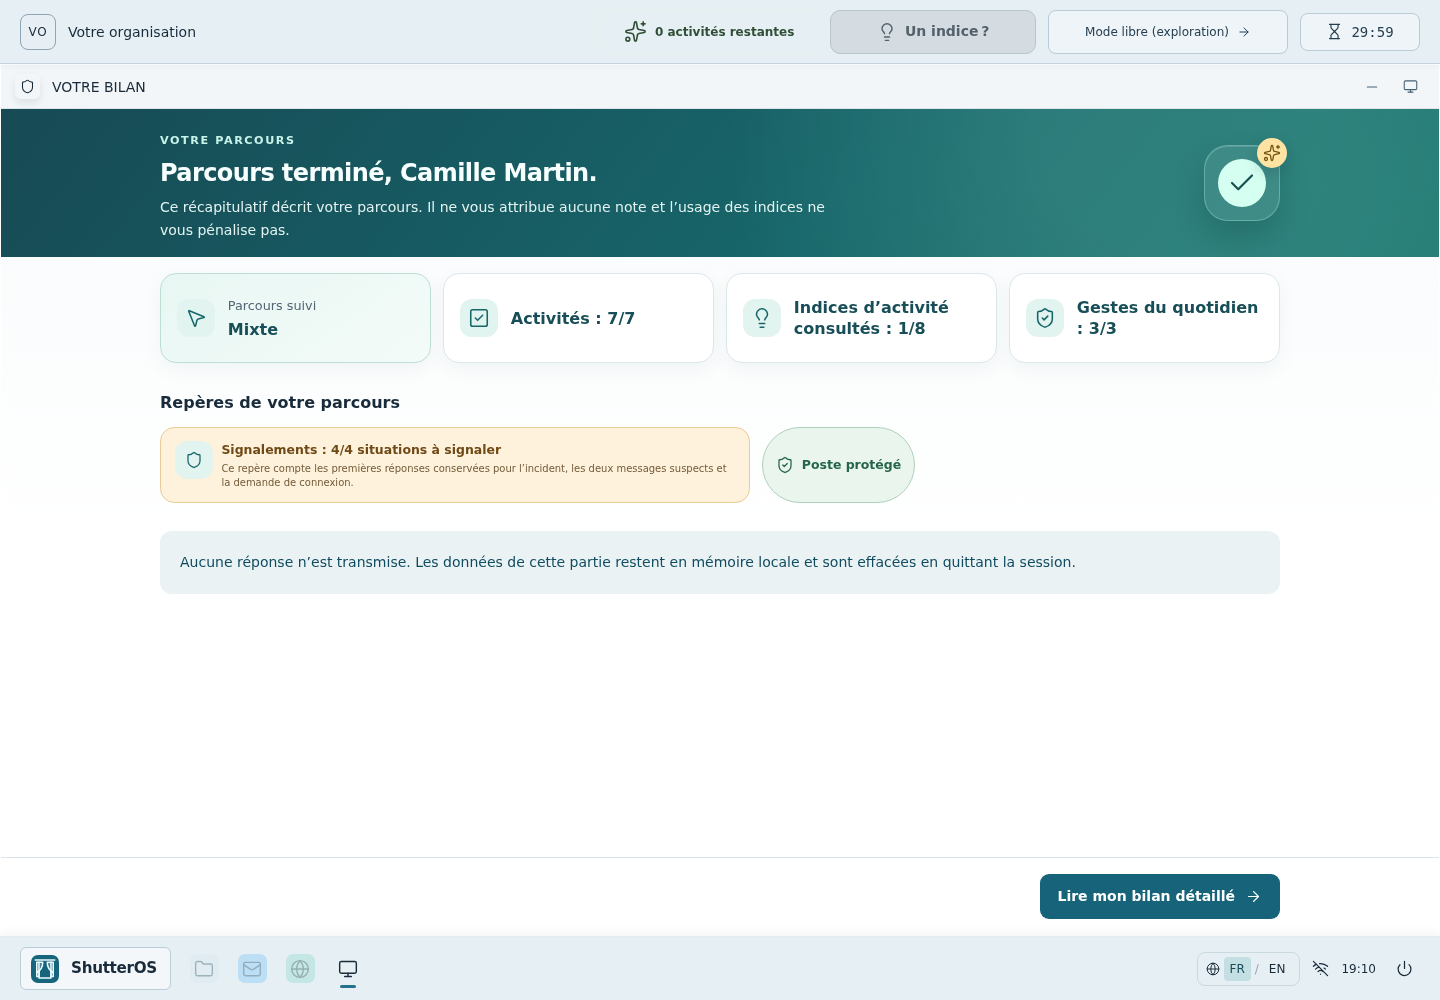
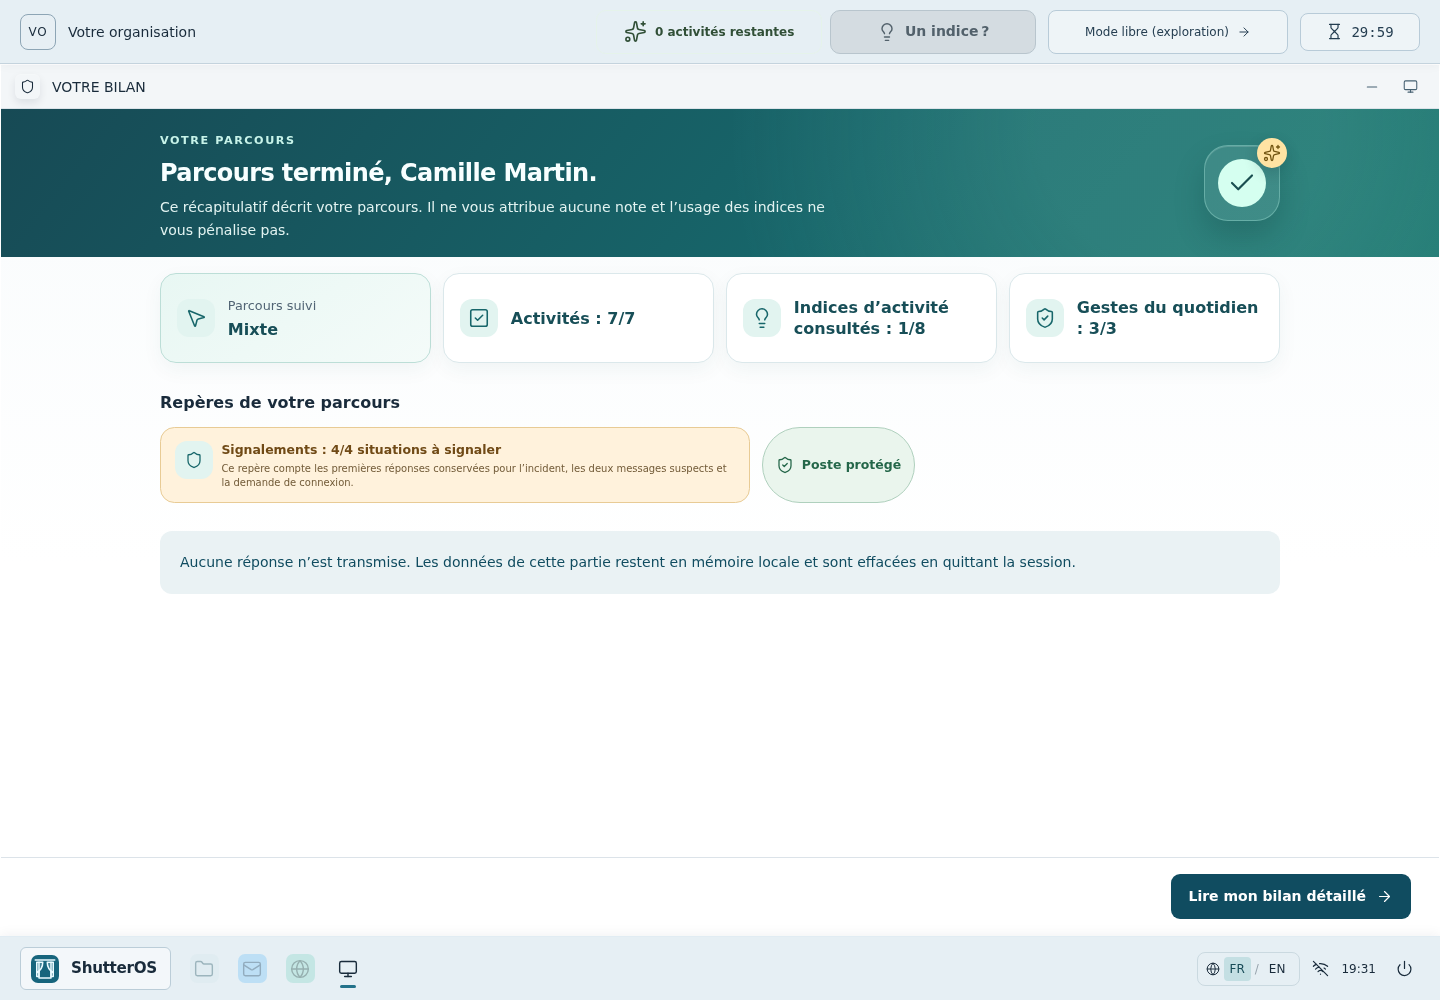
fix(ui): align progression actions at the bottom right

Changed region(s): [[0.7188, 0.868, 1.0, 0.93]]

diff --git a/packages/components/src/screens/Routines.svelte b/packages/components/src/screens/Routines.svelte
@@ -20,79 +20,118 @@
   const nextStep = $derived(nextRoutine === null ? null : copy.routines.steps[nextRoutine]);
 </script>
 
-<section class="p-5 sm:p-7">
-  <div class="reading-column wide">
-    <h1 class="text-2xl font-semibold">{copy.routines.title}</h1>
-    <p class="text-muted mt-2 text-sm">{copy.routines.subtitle}</p>
-    {#if guidedSequence}
-      <aside class="guided-routine-instruction mt-5 rounded-xl p-4">
-        <p class="text-sm leading-relaxed">{copy.routines.guidedInstruction}</p>
-        <p class="guided-routine-next mt-2 text-sm font-semibold" role="status" aria-live="polite">
-          {nextStep === null ? copy.routines.steps.complete : copy.routines.nextStep(nextStep)}
-        </p>
-      </aside>
-    {/if}
-    <div class="routine-grid mt-6 grid gap-6 md:grid-cols-3">
-      {#each ['password', 'update', 'lock'] as item, index (item)}
-        {@const id = item as 'password' | 'update' | 'lock'}
-        {@const done =
-          id === 'lock'
-            ? snapshot.routines.lockPracticed
-            : id === 'password'
-              ? snapshot.routines.password === 'done'
-              : snapshot.routines.update === 'scheduled'}
-        <article
-          class="routine-item flex flex-col"
-          class:current={guidedSequence && nextRoutine === id}
-          data-routine={id}
-        >
-          <Icon name={id === 'password' ? 'key' : id === 'update' ? 'monitor' : 'lock'} size={26} />
-          <p class="text-muted mt-4 text-xs">{index + 1} / 3</p>
-          <h2 class="mt-2 min-h-[3rem] text-lg leading-snug font-semibold">{copy.routines[id]}</h2>
-          <p class="text-muted mt-3 grow text-sm leading-relaxed">{copy.routines[`${id}Body`]}</p>
-          {#if done}<p class="lesson-box mt-4 rounded-lg p-3 text-sm" role="status">
-              <strong>{copy.routines[`${id}Done`]}</strong>{#if id !== 'lock'}<span
-                  class="mt-2 block leading-relaxed"
-                  ><EmphasizedText
-                    text={copy.routines[`${id}Lesson`]}
-                    emphasis={copy.routines[`${id}Emphasis`]}
-                  /></span
-                >{/if}
-            </p>
-          {:else}<button
-              class="button button-soft mt-5"
-              onclick={() =>
-                dispatch(
-                  id === 'lock'
-                    ? { type: 'practice-lock' }
-                    : { type: 'routine', id, action: 'complete' },
-                )}>{copy.routines[`${id}Action`]}</button
-            >{/if}
-        </article>
-      {/each}
-    </div>
-    {#if snapshot.routines.password === 'done' && snapshot.scene.kind === 'routines'}
-      <div class="mt-6 border-t border-[var(--line)] pt-5">
-        <button
-          class="button button-soft"
-          aria-expanded={checkOpen}
-          onclick={() => (checkOpen = !checkOpen)}>{copy.routines.passwordCheck}</button
-        >
-        {#if checkOpen}<div class="mt-4"><KnowledgeCheck {snapshot} {dispatch} /></div>{/if}
+<section class:routines-page={snapshot.scene.kind === 'routines'}>
+  <!-- svelte-ignore a11y_no_noninteractive_tabindex (The bounded activity region needs keyboard focus for scrolling.) -->
+  <div
+    class="routines-content p-5 sm:p-7"
+    role="region"
+    aria-label={copy.routines.title}
+    tabindex={snapshot.scene.kind === 'routines' ? 0 : undefined}
+  >
+    <div class="reading-column wide">
+      <h1 class="text-2xl font-semibold">{copy.routines.title}</h1>
+      <p class="text-muted mt-2 text-sm">{copy.routines.subtitle}</p>
+      {#if guidedSequence}
+        <aside class="guided-routine-instruction mt-5 rounded-xl p-4">
+          <p class="text-sm leading-relaxed">{copy.routines.guidedInstruction}</p>
+          <p
+            class="guided-routine-next mt-2 text-sm font-semibold"
+            role="status"
+            aria-live="polite"
+          >
+            {nextStep === null ? copy.routines.steps.complete : copy.routines.nextStep(nextStep)}
+          </p>
+        </aside>
+      {/if}
+      <div class="routine-grid mt-6 grid gap-6 md:grid-cols-3">
+        {#each ['password', 'update', 'lock'] as item, index (item)}
+          {@const id = item as 'password' | 'update' | 'lock'}
+          {@const done =
+            id === 'lock'
+              ? snapshot.routines.lockPracticed
+              : id === 'password'
+                ? snapshot.routines.password === 'done'
+                : snapshot.routines.update === 'scheduled'}
+          <article
+            class="routine-item flex flex-col"
+            class:current={guidedSequence && nextRoutine === id}
+            data-routine={id}
+          >
+            <Icon
+              name={id === 'password' ? 'key' : id === 'update' ? 'monitor' : 'lock'}
+              size={26}
+            />
+            <p class="text-muted mt-4 text-xs">{index + 1} / 3</p>
+            <h2 class="mt-2 min-h-[3rem] text-lg leading-snug font-semibold">
+              {copy.routines[id]}
+            </h2>
+            <p class="text-muted mt-3 grow text-sm leading-relaxed">{copy.routines[`${id}Body`]}</p>
+            {#if done}<p class="lesson-box mt-4 rounded-lg p-3 text-sm" role="status">
+                <strong>{copy.routines[`${id}Done`]}</strong>{#if id !== 'lock'}<span
+                    class="mt-2 block leading-relaxed"
+                    ><EmphasizedText
+                      text={copy.routines[`${id}Lesson`]}
+                      emphasis={copy.routines[`${id}Emphasis`]}
+                    /></span
+                  >{/if}
+              </p>
+            {:else}<button
+                class="button button-soft mt-5"
+                onclick={() =>
+                  dispatch(
+                    id === 'lock'
+                      ? { type: 'practice-lock' }
+                      : { type: 'routine', id, action: 'complete' },
+                  )}>{copy.routines[`${id}Action`]}</button
+              >{/if}
+          </article>
+        {/each}
       </div>
-    {/if}
-    {#if snapshot.scene.kind === 'routines'}<footer class="mt-7 border-t border-[var(--line)] pt-5">
+      {#if snapshot.routines.password === 'done' && snapshot.scene.kind === 'routines'}
+        <div class="mt-6 border-t border-[var(--line)] pt-5">
+          <button
+            class="button button-soft"
+            aria-expanded={checkOpen}
+            onclick={() => (checkOpen = !checkOpen)}>{copy.routines.passwordCheck}</button
+          >
+          {#if checkOpen}<div class="mt-4"><KnowledgeCheck {snapshot} {dispatch} /></div>{/if}
+        </div>
+      {/if}
+    </div>
+  </div>
+  {#if snapshot.scene.kind === 'routines'}
+    <footer class="shrink-0 border-t border-[var(--line)] px-5 py-4 sm:px-7">
+      <div class="window-actions">
         <button
           class="button button-primary"
           disabled={pendingRoutines(snapshot).length > 0}
           onclick={() => dispatch({ type: 'continue' })}
-          >{copy.experience.review}<Icon name="arrow" size={17} /></button
         >
-      </footer>{/if}
-  </div>
+          {copy.experience.review}<Icon name="arrow" size={17} />
+        </button>
+      </div>
+    </footer>
+  {/if}
 </section>
 
 <style>
+  :global(.window-body:has(> .routines-page)) {
+    display: flex;
+    overflow: hidden;
+  }
+  .routines-page {
+    display: flex;
+    flex-direction: column;
+    flex: 1;
+    min-height: 0;
+    width: 100%;
+  }
+  .routines-page .routines-content {
+    flex: 1;
+    min-height: 0;
+    overflow-y: auto;
+  }
+
   .guided-routine-instruction {
     color: var(--accent-strong);
     background: var(--soft);

diff --git a/packages/components/src/screens/Debrief.svelte b/packages/components/src/screens/Debrief.svelte
@@ -121,8 +121,8 @@
         </div>
       </div>
     </div>
-    <footer class="border-t border-[var(--line)] px-5 py-5 sm:px-7">
-      <div class="reading-column wide flex flex-wrap items-center justify-end gap-4">
+    <footer class="border-t border-[var(--line)] px-5 py-4 sm:px-7">
+      <div class="window-actions">
         <button class="button button-primary" onclick={() => void showDetailed(true)}>
           {copy.debrief.summary.detailed}<Icon name="arrow" size={17} />
         </button>
@@ -248,14 +248,15 @@
         </div>
       </div>
     </div>
-    <footer class="border-t border-[var(--line)] px-5 py-5 sm:px-7">
-      <div class="reading-column wide">
-        <div class="flex flex-wrap items-center justify-between gap-4">
-          <div>
+    <footer class="border-t border-[var(--line)] px-5 py-4 sm:px-7">
+      <div class="debrief-footer">
+        <div class="flex flex-wrap items-end justify-between gap-4">
+          <div class="min-w-0 flex-1">
             <p class="font-semibold">{copy.debrief.thankYou}</p>
             <p class="text-muted mt-1 text-xs">{copy.debrief.privacy}</p>
+            <p class="text-muted mt-1 text-xs leading-relaxed">{copy.debrief.source}</p>
           </div>
-          <div class="flex flex-wrap gap-3">
+          <div class="window-actions debrief-actions">
             <button class="button button-soft" onclick={() => dispatch({ type: 'close' })}
               >{copy.shell.resume}</button
             ><button class="button button-primary" onclick={() => dispatch({ type: 'logout' })}
@@ -263,13 +264,15 @@
             >
           </div>
         </div>
-        <p class="text-muted mt-5 text-xs leading-relaxed">{copy.debrief.source}</p>
       </div>
     </footer>
   </section>
 {/if}
 
 <style>
+  .debrief-actions {
+    margin-left: auto;
+  }
   :global(.os-window:has(.debrief-view)) {
     height: 100%;
   }
@@ -480,9 +483,6 @@
     background: #788b99;
     border: 2px solid #edf1f4;
     border-radius: 8px;
-  }
-  footer :global(.mt-5) {
-    margin-top: 0.5rem;
   }
   @media (max-width: 1023px) {
     .debrief-columns {

diff --git a/packages/components/src/screens/Intro.svelte b/packages/components/src/screens/Intro.svelte
@@ -73,8 +73,8 @@
       </div>
     </div>
   </div>
-  <footer class="shrink-0 border-t border-[var(--line)] px-5 py-4 sm:px-6">
-    <div class="reading-column">
+  <footer class="shrink-0 border-t border-[var(--line)] px-5 py-4 sm:px-7">
+    <div class="window-actions">
       <button class="button button-primary" onclick={() => dispatch({ type: 'continue' })}
         >{snapshot.mode === 'guided' ? copy.intro.guidedStart : copy.intro.start}<Icon
           name="arrow"

diff --git a/packages/components/src/theme.css b/packages/components/src/theme.css
@@ -1107,6 +1107,14 @@ button:active:not(:disabled) {
 .device-shell .mfa-notch {
   background: #152c40;
 }
+/* Progression keeps the same trailing alignment across learning screens. */
+.window-actions {
+  display: flex;
+  flex-wrap: wrap;
+  align-items: center;
+  justify-content: flex-end;
+  gap: 0.75rem;
+}
 .reading-column {
   width: 100%;
   max-width: 850px;

diff --git a/packages/components/src/screens/Feedback.svelte b/packages/components/src/screens/Feedback.svelte
@@ -110,7 +110,7 @@
     </div>
   </div>
   <footer class="shrink-0 border-t border-[var(--line)] px-5 py-4 sm:px-7">
-    <div class="reading-column">
+    <div class="window-actions">
       <button class="button button-primary" onclick={() => dispatch({ type: 'continue' })}
         >{snapshot.mode === 'guided'
           ? copy.experience.next
